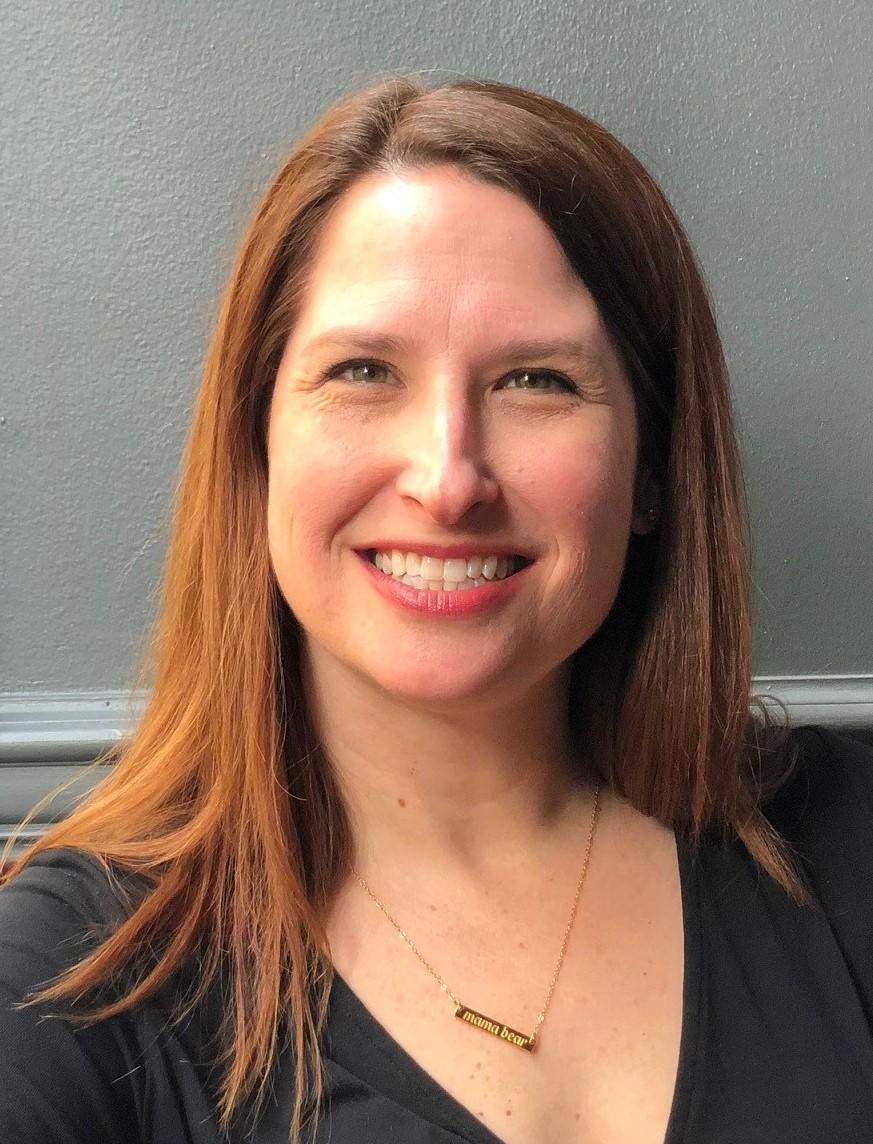
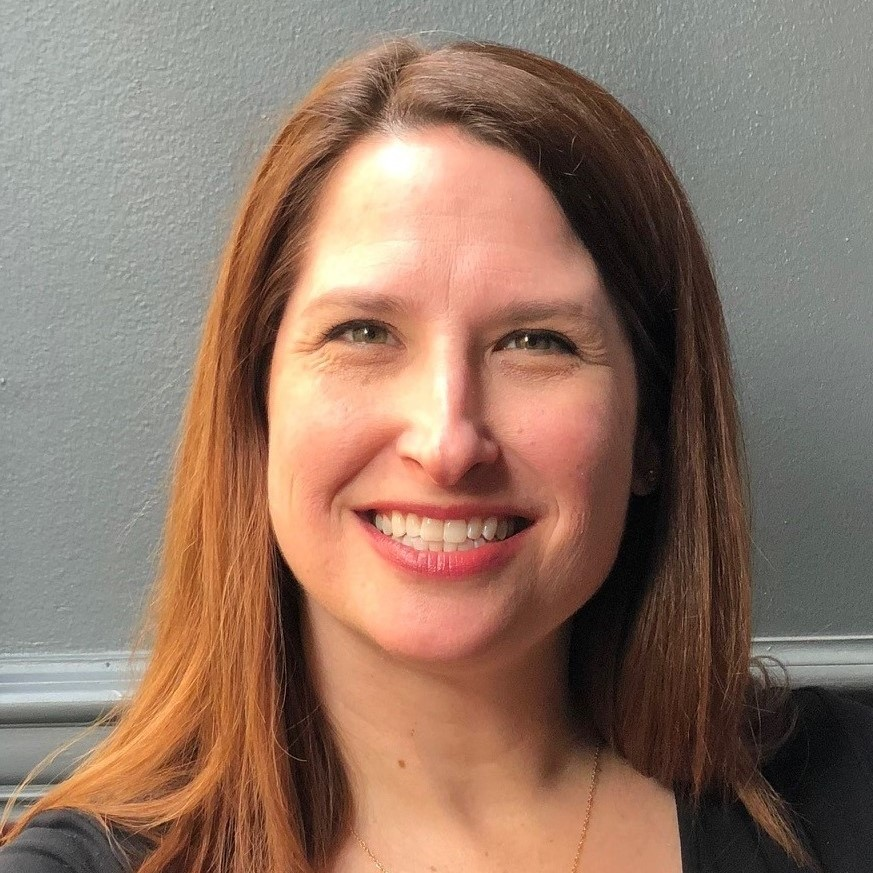
Added content to homepage

diff --git a/index.html b/index.html
@@ -33,9 +33,62 @@
   <body>
     <div class="hero">
       <h1>Rachel Meenen</h1>
-      <h2>Frontend developer based in Kansas City</h2>
+      <h2>Frontend developer based in the United States</h2>
       <div>
         <a href="#" class="btn btn-branding">Contact me</a>
+      </div>
+    </div>
+    <div class="container">
+      <div class="row mt-5 d-sm-flex justify-content-center">
+        <div class="col-sm-5">
+          <img
+            src="images/Rachel.jpg"
+            class="img-rachel img-fluid rounded-circle"
+          />
+        </div>
+        <div class="col-sm-5 introduction">
+          <p class="mt-md-5">
+            I'm a frontend developer from the Kansas City area. I have recently
+            fallen in love with web development thanks to SheCodes. I've been
+            able to quickly learn the basics and beyond of frontend development.
+            I hope to put these skills to use in my new career!
+          </p>
+        </div>
+      </div>
+      <h3>Take a look at my recent projects:</h3>
+      <div class="row recent-projects justify-content-center">
+        <div class="col-md-3 recent-project-example">
+          <h2>Book Webpage</h2>
+          <img src="images/book-project.png" class="img-fluid" />
+          <h2>
+            <i class="fa-brands fa-html5"></i>
+            <i class="fa-brands fa-css3-alt"></i>
+            <i class="fa-brands fa-js-square"></i>
+            <i class="fa-brands fa-github"></i>
+          </h2>
+        </div>
+        <div class="col-md-3 recent-project-example">
+          <h2>Weather App</h2>
+          <img src="images/weather-app.PNG" class="img-fluid" />
+          <h2>
+            <i class="fa-brands fa-html5"></i>
+            <i class="fa-brands fa-css3-alt"></i>
+            <i class="fa-brands fa-js-square"></i>
+            <i class="fa-brands fa-bootstrap"></i>
+            <i class="fa-brands fa-github"></i>
+          </h2>
+        </div>
+        <div class="col-md-3 recent-project-example">
+          <h2>Portfolio Project</h2>
+          <img src="images/weather-app.PNG" class="img-fluid" />
+          <h2>
+            <i class="fa-brands fa-html5"></i>
+            <i class="fa-brands fa-css3-alt"></i>
+            <i class="fa-brands fa-js-square"></i>
+            <i class="fa-brands fa-bootstrap"></i>
+            <i class="fa-brands fa-github"></i>
+          </h2>
+        </div>
       </div>
     </div>
   </body>

diff --git a/src/portfolio.css b/src/portfolio.css
@@ -13,6 +13,19 @@ h1 {
   font-size: 96px;
 }
 
+h3 {
+  text-align: center;
+  font-size: 48px;
+  margin: 50px 0 30px;
+  color: var(--secondary-color);
+}
+
+p {
+  font-family: var(--default-font-family);
+  font-size: 20px;
+  line-height: 1.5;
+}
+
 .hero {
   color: var(--primary-color);
   text-align: center;
@@ -33,4 +46,58 @@ h1 {
 
 .btn-branding:hover {
   background-color: rgb(244, 102, 90);
+}
+
+.img-rachel {
+  width: 300px;
+  float: right;
+  margin: 0 30px;
+}
+
+.introduction {
+  margin: 25px 60px 0px 30px;
+}
+
+.recent-projects {
+  width: 100%;
+}
+
+.recent-project-example {
+  text-align: center;
+  background-color: var(--primary-color);
+  padding: 30px 15px;
+  border-radius: 10px;
+  box-shadow: 5px 5px 5px rgb(169, 169, 169);
+  margin: 10px 15px 30px;
+}
+
+@media (max-width: 900px) {
+  h1 {
+    font-size: 48px;
+  }
+
+  h3 {
+    font-size: 30px;
+  }
+
+  p {
+    font-size: 12px;
+  }
+
+  .hero {
+    padding: 50px;
+  }
+
+  .img-rachel {
+    float: none;
+    justify-content: center;
+  }
+
+  .introduction {
+    text-align: center;
+    margin: 5px;
+  }
+    
+  
+
 }

diff --git a/about.html b/about.html
@@ -33,5 +33,15 @@
   <body>
     <h1>Rachel Meenen</h1>
     <p>from Kansas City</p>
+    <div class="container">
+      <div class="row introduction">
+        <div class="col">
+          <img
+            src="images/Rachel.jpg"
+            class="img-rachel img-fluid rounded-circle"
+          />
+        </div>
+      </div>
+    </div>
   </body>
 </html>
